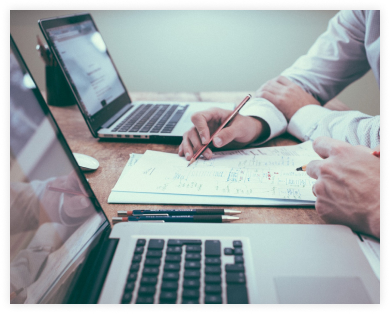
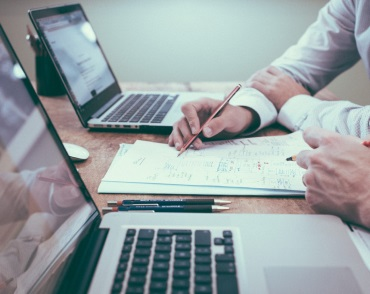
styles

diff --git a/index.html b/index.html
@@ -9,11 +9,12 @@
       href="https://fonts.googleapis.com/css2?family=Raleway:ital,wght@0,100..900;1,100..900&family=Roboto:ital,wght@0,100;0,300;0,400;0,500;0,700;0,900;1,100;1,300;1,400;1,500;1,700;1,900&display=swap"
       rel="stylesheet"
     />
+    <link rel="stylesheet" href="css/styles.css" />
     <title>DevStudio</title>
   </head>
   <body>
     <header>
-      <a href="./index.html">DevStudio</a>
+      <a class="logo" href="./index.html"><span>Dev</span>Studio</a>
       <nav>
         <ul>
           <li><a href="#">Про нас</a></li>
@@ -22,7 +23,7 @@
         </ul>
       </nav>
 
-      <ul>
+      <ul class="contacts">
         <li>
           <a href="mailto:info@devstudio.com">
             <svg width="16" height="12">
@@ -43,12 +44,12 @@
     </header>
 
     <main>
-      <section>
+      <section class="с01">
         <h1>Ми створюємо легкі рішення складних завдань для вашого бізнеса</h1>
         <button type="button">Замовити послугу</button>
       </section>
 
-      <section>
+      <section class="pref">
         <ul>
           <li>
             <svg width="70" height="70">
@@ -94,16 +95,29 @@
       </section>
 
       <section>
-        <h2>Роботи на яких спеціалізуємось</h2>
+        <h2 class="spec">Роботи на яких спеціалізуємось</h2>
         <ul>
           <li>
-            <img src="images/img1.jpg" width="370" height="294" alt="Код" />
-          </li>
-          <li>
-            <img src="images/img3.jpg" width="370" height="294" alt="Команда" />
+            <img
+              class="roundimg"
+              src="images/img1.jpg"
+              width="370"
+              height="294"
+              alt="Код"
+            />
           </li>
           <li>
             <img
+              class="roundimg"
+              src="images/img3.jpg"
+              width="370"
+              height="294"
+              alt="Команда"
+            />
+          </li>
+          <li>
+            <img
+              class="roundimg"
               src="images/img2.jpg"
               width="370"
               height="294"
@@ -113,18 +127,18 @@
         </ul>
       </section>
 
-      <section>
+      <section class="team">
         <h2>Наша команда</h2>
         <ul>
-          <li>
+          <li class="member">
             <img
               src="images/betі.jpg"
               width="270"
               height="260"
               alt="Betty Foriz"
             />
-            <p>Betty Foriz</p>
-            <p>Product Designer</p>
+            <p class="name">Betty Foriz</p>
+            <p class="post">Product Designer</p>
             <ul>
               <li>
                 <a href="https://instagram.com/">
@@ -156,15 +170,15 @@
               </li>
             </ul>
           </li>
-          <li>
+          <li class="member">
             <img
               src="images/folke.jpg"
               width="270"
               height="260"
               alt="Folke Booke"
             />
-            <p>Folke Booke</p>
-            <p>Frontend Developer</p>
+            <p class="name">Folke Booke</p>
+            <p class="post">Frontend Developer</p>
             <ul>
               <li>
                 <a href="https://instagram.com/">
@@ -196,15 +210,15 @@
               </li>
             </ul>
           </li>
-          <li>
+          <li class="member">
             <img
               src="images/mitto.jpg"
               width="270"
               height="260"
               alt="Mito Dito"
             />
-            <p>Mito Dito</p>
-            <p>Marketing</p>
+            <p class="name">Mito Dito</p>
+            <p class="post">Marketing</p>
             <ul>
               <li>
                 <a href="https://instagram.com/">
@@ -236,15 +250,15 @@
               </li>
             </ul>
           </li>
-          <li>
+          <li class="member">
             <img
               src="images/lea.jpg"
               width="270"
               height="260"
               alt="Loa Spetnaz"
             />
-            <p>Loa Spetnaz</p>
-            <p>UI Designer</p>
+            <p class="name">Loa Spetnaz</p>
+            <p class="post">UI Designer</p>
             <ul>
               <li>
                 <a href="https://instagram.com/">
@@ -281,8 +295,8 @@
     </main>
 
     <footer>
-      <a href="./index.html">DevStudio</a>
-      <address>
+      <a class="flogo" href="./index.html"><span>Dev</span>Studio</a>
+      <address class="adres">
         м. Харків, вул. Ярослава Мудрого, 18
         <ul>
           <a href="mailto:info@devstudio.com">info@devstudio.com</a>
@@ -321,7 +335,7 @@
         </li>
       </ul>
       <p>Підпишись на розсилку</p>
-      <form><input type="email" placeholder="E-mail" /></form>
+      <form><input class="f1" type="email" placeholder="E-mail" /></form>
       <button type="submit">
         Підписатись
         <svg width="24" height="24">

diff --git a/css/styles.css b/css/styles.css
@@ -1,0 +1,186 @@
+:root {
+  --logo-color: #2196f3;
+}
+
+a {
+  color: black;
+  text-decoration: none;
+  font-family: 'Roboto';
+}
+
+ul {
+  list-style-type: none;
+}
+
+.logo {
+  font-family: 'Raleway';
+  font-size: 26px;
+  font-weight: 700;
+}
+.logo span {
+  color: var(--logo-color);
+}
+
+.flogo {
+  font-family: 'Raleway';
+  font-size: 26px;
+  font-weight: 700;
+  color: white;
+}
+
+.flogo span {
+  color: var(--logo-color);
+}
+
+.adres {
+  color: white;
+  font-family: 'Roboto';
+  font-size: 14px;
+  font-weight: 400;
+  font-style: normal;
+}
+
+.adres a {
+  color: #ffffff99;
+  font-size: 14px;
+  font-weight: 400;
+}
+
+header nav ul li {
+  font-family: 'Roboto';
+  font-size: 14px;
+  font-weight: 500;
+}
+
+header nav ul li :hover {
+  color: var(--logo-color);
+}
+
+header .contacts li a {
+  font-family: 'Roboto';
+  font-size: 14px;
+  font-weight: 500;
+  color: #757575;
+  fill: #757575;
+}
+
+header .contacts li :hover {
+  color: var(--logo-color);
+  fill: var(--logo-color);
+}
+
+main .с01 {
+  background-color: #2f303a;
+  font-family: 'Roboto';
+  font-size: 44px;
+  font-weight: 700;
+  color: white;
+}
+button {
+  background-color: var(--logo-color);
+  color: white;
+  font-family: 'Roboto';
+  font-size: 16px;
+  font-weight: 700;
+}
+
+main .pref ul li h3 {
+  font-family: 'Roboto';
+  font-size: 14px;
+  font-weight: 700;
+}
+
+main .pref ul li p {
+  font-family: 'Roboto';
+  font-size: 14px;
+  font-weight: 400;
+  color: #757575;
+}
+
+main .pref ul li svg {
+  background-color: #f5f4fa;
+}
+
+main .spec {
+  font-family: 'Roboto';
+  font-size: 36px;
+  font-weight: 700;
+}
+
+main .roundimg {
+  border-radius: 10px;
+}
+
+main .team {
+  background-color: #f5f4fa;
+}
+
+main .team h2 {
+  font-family: 'Roboto';
+  font-size: 36px;
+  font-weight: 700;
+}
+
+main .member {
+  box-shadow: 0 2px 3px 0px;
+}
+
+main .team ul li svg {
+  fill: #afb1b8;
+}
+
+main .team ul li a :hover {
+  background-color: var(--logo-color);
+  fill: white;
+}
+
+main .team ul li .name {
+  font-family: 'Roboto';
+  font-size: 16px;
+  font-weight: 500;
+}
+
+main .team ul li .post {
+  font-family: 'Roboto';
+  font-size: 16px;
+  font-weight: 400;
+  color: #757575;
+}
+
+footer {
+  background-color: #2f303a;
+}
+
+footer p {
+  color: white;
+  font-family: 'Roboto';
+  font-size: 14px;
+  font-weight: 700;
+}
+
+footer ul li svg {
+  fill: white;
+  background-color: #ffffff1a;
+}
+
+footer ul li a :hover {
+  background-color: var(--logo-color);
+}
+
+footer button {
+  background-color: var(--logo-color);
+  font-family: 'Roboto';
+  font-size: 16px;
+  font-weight: 700;
+  color: white;
+  fill: white;
+}
+
+.f1 {
+  background-color: #2f303a;
+  color: #ffffff99;
+  border-color: #ffffff4d;
+  font-family: 'Roboto';
+  font-size: 16px;
+  font-weight: 400;
+}
